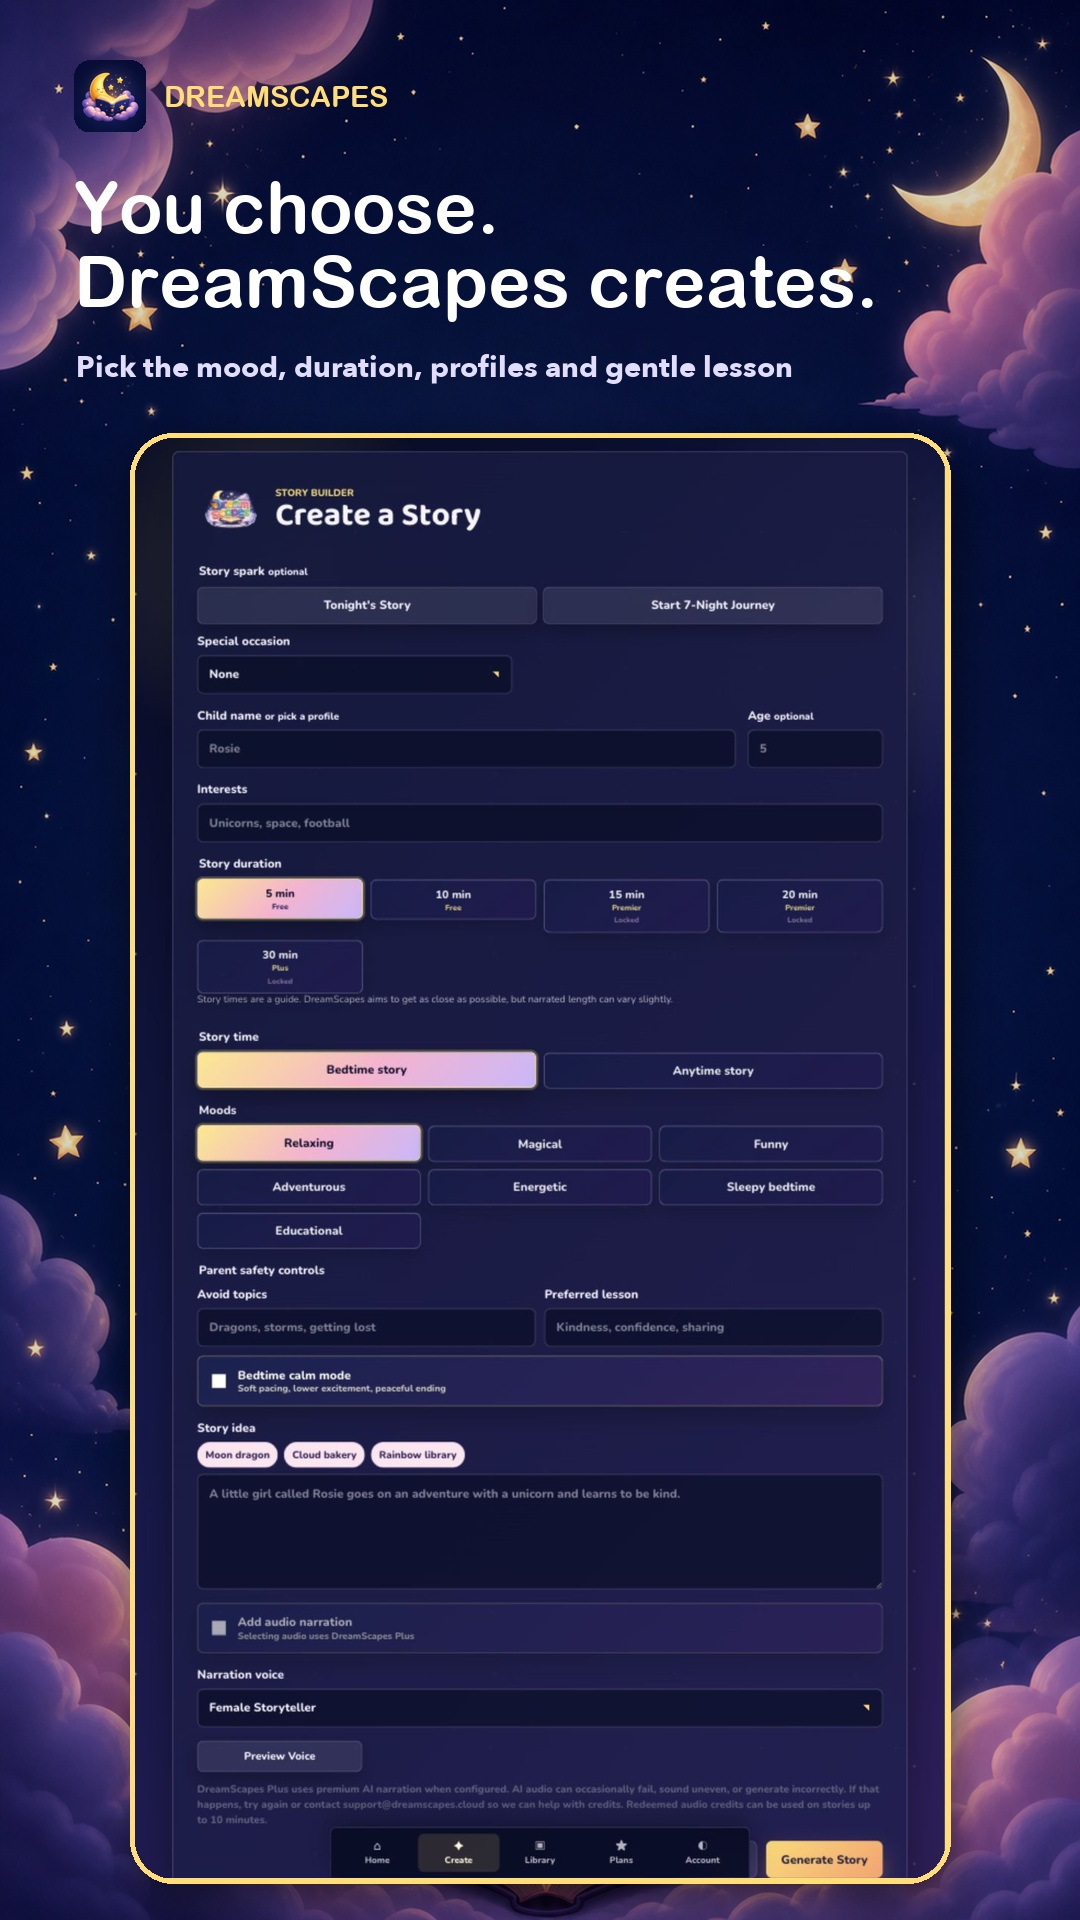
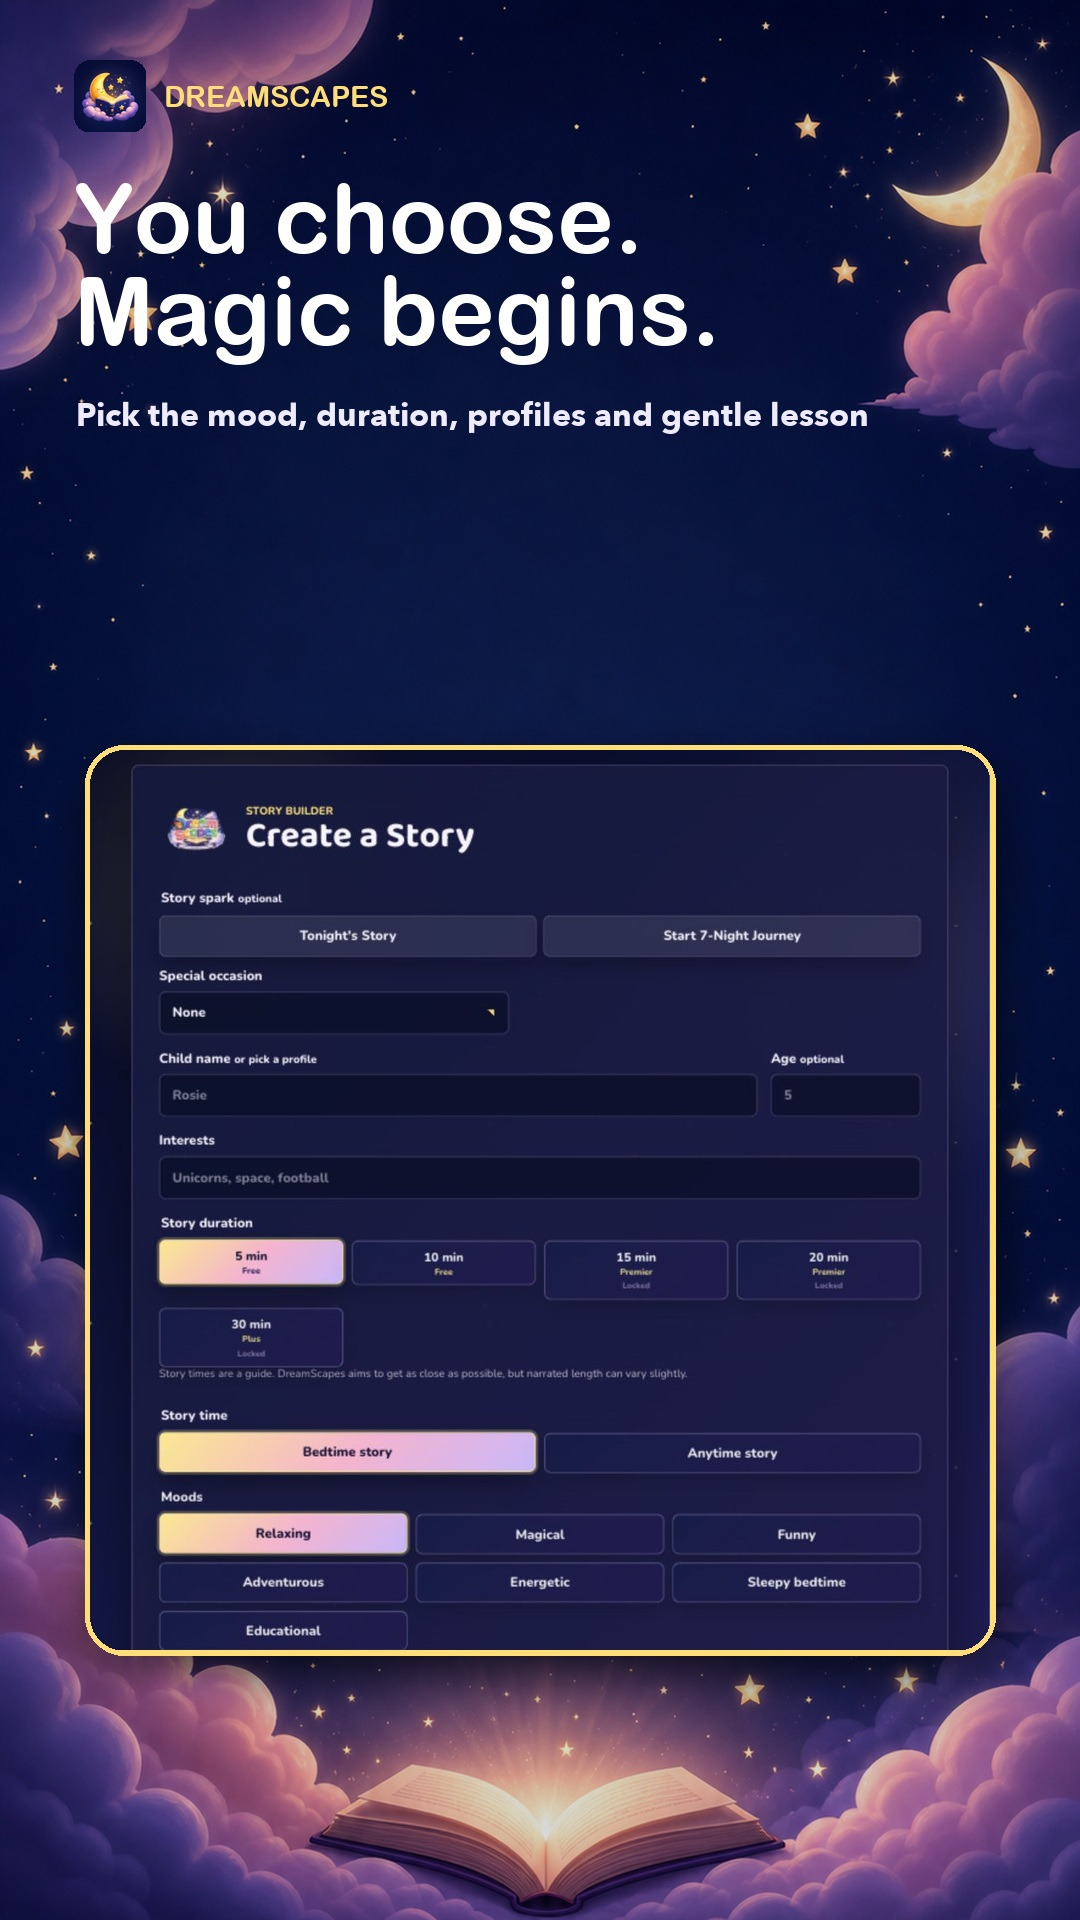
Refine Play Store promotional screenshots

Changed region(s): [[0.0611, 0.0938, 0.9472, 1.0], [0.7639, 0.6562, 0.7944, 0.6875]]

diff --git a/scripts/build-play-screenshots.py b/scripts/build-play-screenshots.py
@@ -19,26 +19,30 @@ SCREENS = [
     (
         "01-personalised-stories.jpg",
         "01-home.png",
-        "Stories made\njust for them",
+        "Made just\nfor them",
         "Personalised adventures for bedtime or anytime",
+        560,
     ),
     (
         "02-story-builder.jpg",
         "02-story-builder.png",
-        "You choose.\nDreamScapes creates.",
+        "You choose.\nMagic begins.",
         "Pick the mood, duration, profiles and gentle lesson",
+        0,
     ),
     (
-        "03-plans-and-audio.jpg",
-        "03-plans.png",
-        "More stories.\nMore ways to listen.",
-        "Flexible plans with saved stories and premium narration",
+        "03-story-library.jpg",
+        "03-library.png",
+        "Their stories.\nAlways ready.",
+        "Save favourites and revisit every magical adventure",
+        0,
     ),
     (
         "04-parent-account.jpg",
         "04-parent-account.png",
-        "One account.\nEvery story safe.",
+        "Safe, saved\nand in sync.",
         "Keep stories, audio and child profiles across devices",
+        620,
     ),
 ]
 
@@ -59,42 +63,84 @@ def cover(image, size):
     return resized.crop((left, top, left + target_width, top + target_height))
 
 
-def rounded_image(image, size, radius):
-    fitted = image.resize(size, Image.Resampling.LANCZOS)
+def crop_square(image, crop_y):
+    side = min(image.width, image.height)
+    crop_y = max(0, min(crop_y, image.height - side))
+    crop_x = max(0, (image.width - side) // 2)
+    return image.crop((crop_x, crop_y, crop_x + side, crop_y + side))
+
+
+def rounded_image(image, size, radius, crop_y):
+    fitted = crop_square(image, crop_y).resize(size, Image.Resampling.LANCZOS)
     mask = Image.new("L", size, 0)
     ImageDraw.Draw(mask).rounded_rectangle((0, 0, size[0], size[1]), radius=radius, fill=255)
     fitted.putalpha(mask)
     return fitted
 
 
-def build(output_name, source_name, headline, subhead):
+def library_preview(image):
+    image = image.copy()
+    draw = ImageDraw.Draw(image)
+    title_font = font(FONT_BOLD, 28)
+    body_font = font(FONT_REGULAR, 17)
+    meta_font = font(FONT_BOLD, 14)
+    badge_font = font(FONT_BOLD, 14)
+    button_font = font(FONT_BOLD, 16)
+
+    draw.rectangle((82, 224, 999, image.height), fill=(17, 22, 67, 255))
+
+    def story_card(y, title, preview, saved=False, new=False):
+        outline = (255, 231, 133, 235) if saved or new else (216, 198, 255, 72)
+        draw.rounded_rectangle(
+            (83, y, 998, y + 278),
+            radius=10,
+            fill=(9, 14, 49, 242),
+            outline=outline,
+            width=2 if saved or new else 1,
+        )
+        text_y = y + 22
+        if new:
+            draw.rounded_rectangle((101, text_y, 211, text_y + 30), radius=15, fill=(255, 214, 132, 255))
+            draw.text((118, text_y + 6), "New story", font=badge_font, fill=(22, 15, 53, 255))
+        if saved:
+            draw.rounded_rectangle((222, text_y, 302, text_y + 30), radius=15, fill=(75, 57, 128, 255))
+            draw.text((239, text_y + 6), "Saved", font=badge_font, fill=(255, 248, 220, 255))
+        if new or saved:
+            text_y += 44
+        draw.text((101, text_y), title, font=title_font, fill=(255, 248, 220, 255))
+        draw.text((101, text_y + 43), "DreamScapes Plus  -  Story 05:12  -  Audio saved", font=meta_font, fill=(216, 198, 255, 220))
+        draw.text((101, text_y + 74), preview, font=body_font, fill=(237, 232, 255, 225))
+        button_y = y + 213
+        draw.rounded_rectangle((101, button_y, 470, button_y + 48), radius=8, fill=(255, 215, 133, 255))
+        draw.text((235, button_y + 13), "Open Story", font=button_font, fill=(27, 19, 61, 255))
+        draw.rounded_rectangle((482, button_y, 646, button_y + 48), radius=8, fill=(63, 48, 111, 255))
+        draw.text((536, button_y + 13), "Saved" if saved else "Save", font=button_font, fill=(255, 248, 220, 255))
+        draw.rounded_rectangle((658, button_y, 820, button_y + 48), radius=8, fill=(34, 32, 78, 255))
+        draw.text((711, button_y + 13), "Locked" if saved else "Delete", font=button_font, fill=(255, 231, 133, 255))
+
+    story_card(
+        226,
+        "Rosie and the Moonlit Library",
+        "Rosie followed a ribbon of starlight towards a secret library...",
+        saved=True,
+        new=True,
+    )
+    story_card(
+        520,
+        "The Star That Learned to Shine",
+        "High above the sleepy rooftops, one little star needed a friend...",
+    )
+    return image
+
+
+def build(output_name, source_name, headline, subhead, crop_y):
     backdrop = cover(Image.open(BACKGROUND).convert("RGB"), (WIDTH, HEIGHT)).convert("RGBA")
     wash = Image.new("RGBA", (WIDTH, HEIGHT), (2, 7, 42, 38))
     backdrop = Image.alpha_composite(backdrop, wash)
-    draw = ImageDraw.Draw(backdrop)
 
-    icon = Image.open(ICON).convert("RGBA").resize((72, 72), Image.Resampling.LANCZOS)
-    icon_mask = Image.new("L", icon.size, 0)
-    ImageDraw.Draw(icon_mask).rounded_rectangle((0, 0, 72, 72), radius=16, fill=255)
-    icon.putalpha(icon_mask)
-    backdrop.alpha_composite(icon, (74, 60))
-
-    brand_font = font(FONT_BOLD, 29)
-    headline_font = font(FONT_BOLD, 72)
-    subhead_font = font(FONT_REGULAR, 29)
-    draw.text((164, 79), "DREAMSCAPES", font=brand_font, fill=(255, 221, 121, 255))
-    draw.multiline_text(
-        (74, 164),
-        headline,
-        font=headline_font,
-        fill=(255, 255, 255, 255),
-        spacing=4,
-    )
-    draw.text((76, 348), subhead, font=subhead_font, fill=(226, 221, 255, 255))
-
-    frame_size = (810, 1440)
-    frame_position = (135, 438)
-    frame_radius = 38
+    frame_size = (900, 900)
+    frame_position = (90, 750)
+    frame_radius = 34
     shadow = Image.new("RGBA", (WIDTH, HEIGHT), (0, 0, 0, 0))
     shadow_draw = ImageDraw.Draw(shadow)
     sx, sy = frame_position
@@ -105,14 +151,41 @@ def build(output_name, source_name, headline, subhead):
     )
     shadow = shadow.filter(ImageFilter.GaussianBlur(24))
     backdrop = Image.alpha_composite(backdrop, shadow)
+
+    icon = Image.open(ICON).convert("RGBA").resize((72, 72), Image.Resampling.LANCZOS)
+    icon_mask = Image.new("L", icon.size, 0)
+    ImageDraw.Draw(icon_mask).rounded_rectangle((0, 0, 72, 72), radius=16, fill=255)
+    icon.putalpha(icon_mask)
+    backdrop.alpha_composite(icon, (74, 60))
+
+    brand_font = font(FONT_BOLD, 29)
+    headline_font = font(FONT_BOLD, 96)
+    subhead_font = font(FONT_REGULAR, 32)
     draw = ImageDraw.Draw(backdrop)
+    draw.text((164, 79), "DREAMSCAPES", font=brand_font, fill=(255, 221, 121, 255))
+    draw.multiline_text(
+        (74, 162),
+        headline,
+        font=headline_font,
+        fill=(255, 255, 255, 255),
+        spacing=0,
+    )
+    draw.text((76, 394), subhead, font=subhead_font, fill=(238, 234, 255, 255))
     draw.rounded_rectangle(
         (sx - 5, sy - 5, sx + frame_size[0] + 5, sy + frame_size[1] + 5),
         radius=frame_radius + 5,
         fill=(255, 221, 121, 255),
     )
 
-    app_screen = rounded_image(Image.open(SOURCE_DIR / source_name).convert("RGBA"), frame_size, frame_radius)
+    source_screen = Image.open(SOURCE_DIR / source_name).convert("RGBA")
+    if source_name == "03-library.png":
+        source_screen = library_preview(source_screen)
+    app_screen = rounded_image(
+        source_screen,
+        frame_size,
+        frame_radius,
+        crop_y,
+    )
     backdrop.alpha_composite(app_screen, frame_position)
     backdrop.convert("RGB").save(OUTPUT_DIR / output_name, "JPEG", quality=94, optimize=True)
 